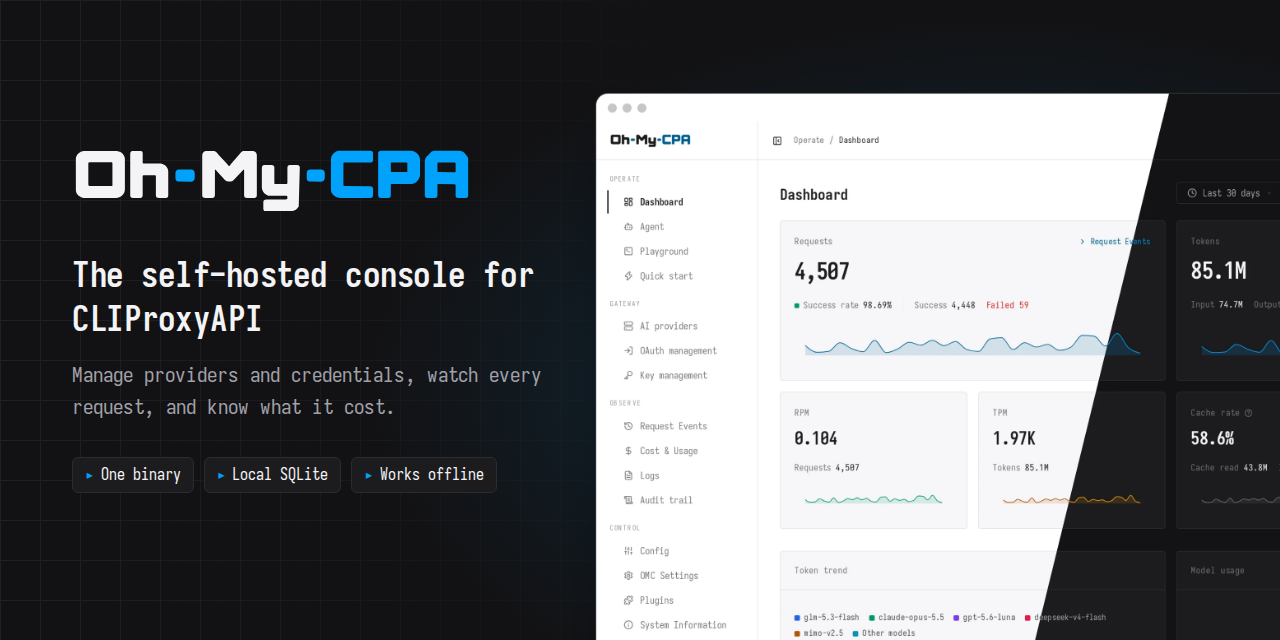
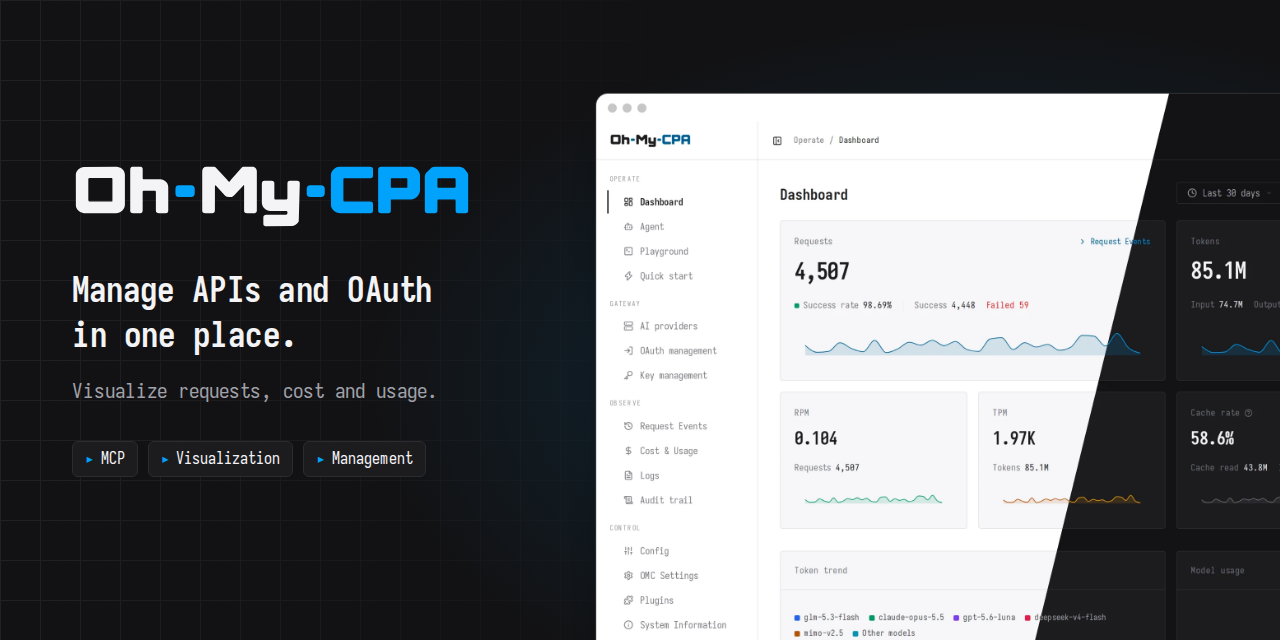
docs(readme): lead with what the console does, and match the social preview
Both READMEs open on one line - manage APIs and OAuth in one place, visualize
requests, cost and usage - followed by the three pillars: MCP, visualization,
management. The social preview image carries the same English copy.

Changed region(s): [[0.0312, 0.4062, 0.4375, 0.6562], [0.0625, 0.2188, 0.375, 0.375], [0.0625, 0.6875, 0.375, 0.75]]

diff --git a/README.md b/README.md
@@ -6,11 +6,9 @@
   <img src="web/src/assets/brand/omc-wordmark-dark.svg" alt="Oh-My-CPA" width="340">
 </picture>
 
-### The self-hosted console for CLIProxyAPI
+### Manage APIs and OAuth in one place. Visualize requests, cost and usage.
 
-**Manage providers and credentials, watch every request, and know what it cost.**
-
-One binary · Embedded console · Local SQLite · Works offline
+MCP · Visualization · Management
 
 <br />
 

diff --git a/README.zh-CN.md b/README.zh-CN.md
@@ -6,11 +6,9 @@
   <img src="web/src/assets/brand/omc-wordmark-dark.svg" alt="Oh-My-CPA" width="340">
 </picture>
 
-### 面向 CLIProxyAPI 的自托管控制台
+### 集中管理 API 与 OAuth，可视化观测请求、成本、用量
 
-**管理提供商与凭据，看清每一次请求，算清每一笔费用。**
-
-单二进制 · 内嵌控制台 · 本地 SQLite · 可离线运行
+MCP · 可视化 · 管理
 
 <br />
 
